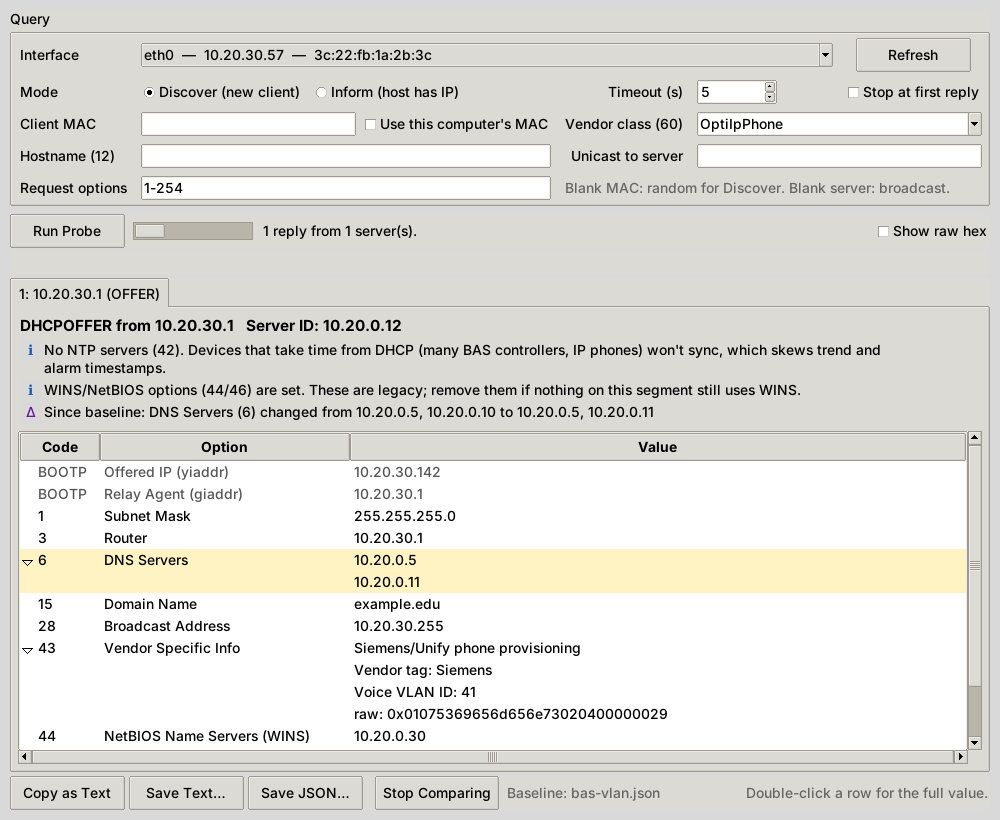
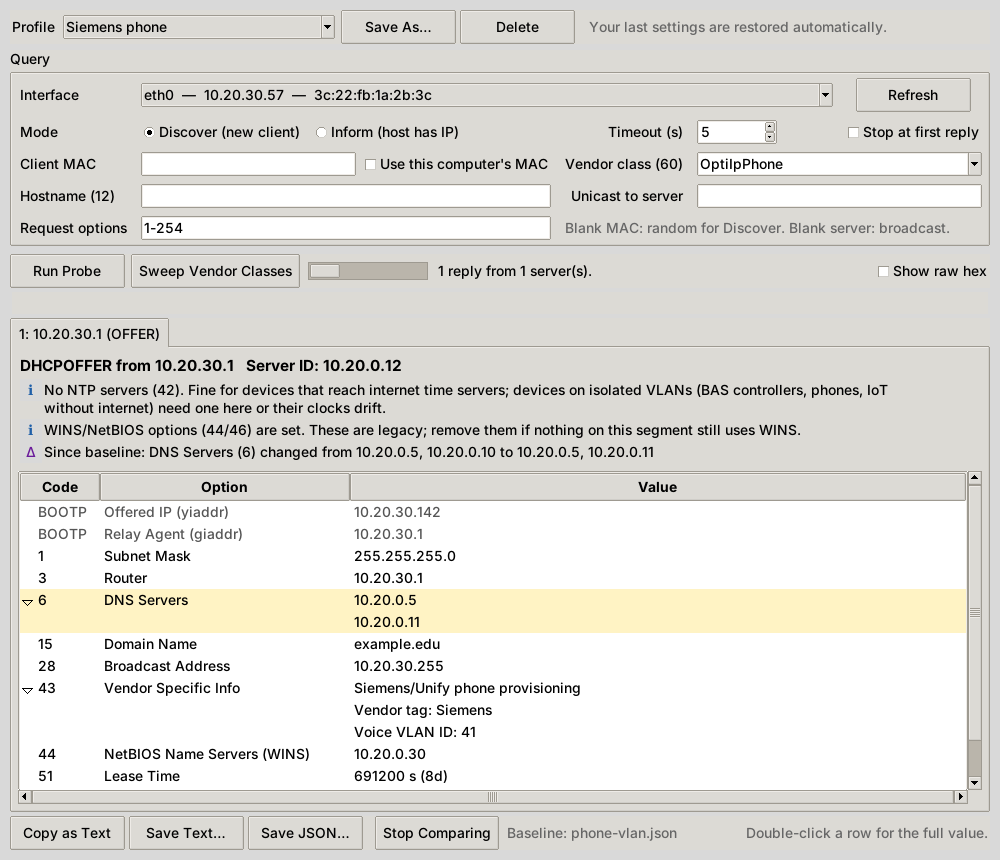
v0.3.0: docs, screenshots, changelog, signing guide
- docs/macos-signing.md: step-by-step Developer ID + API key + secrets
  setup, test procedure and troubleshooting
- README: pipx install, sweep, profiles, attestation verify, signing
  note, code layout; new screenshots
- CHANGELOG 0.3.0; sweep wording "only this class"

Claude-Session: https://claude.ai/code/session_01XPDxoRvYFwvYT4Ymnd1qcL

Changed region(s): [[0.0, 0.0, 0.992, 1.0], [0.961, 0.8232, 0.992, 0.8537]]

diff --git a/dhcp_options_finder/report.py b/dhcp_options_finder/report.py
@@ -129,8 +129,10 @@ def format_sweep(mac, results):
         elif r["status"] == "same":
             lines.append(f"  {name}same as reference")
         else:
-            lines.append(f"  {name}{format_change(r['changes'][0])}")
-            lines += [f"  {' ' * width}{format_change(c)}" for c in r["changes"][1:]]
+            fmt = [format_change(c, added="only this class", removed="not sent to this class")
+                   for c in r["changes"]]
+            lines.append(f"  {name}{fmt[0]}")
+            lines += [f"  {' ' * width}{x}" for x in fmt[1:]]
     if s["reference"] is None:
         lines.append("\nNo replies to any probe.")
     elif s["reference"]:

diff --git a/dhcp_options_finder/baseline.py b/dhcp_options_finder/baseline.py
@@ -42,10 +42,10 @@ def compare(record, baseline, ignore=BASELINE_IGNORE):
     return changes
 
 
-def format_change(c):
+def format_change(c, added="new", removed="removed"):
     code = f"{c['option']:>3} " if c["option"] is not None else "    "
     if c["kind"] == "added":
-        return f"+ {code}{c['name']}: {c['now']}  (new)"
+        return f"+ {code}{c['name']}: {c['now']}  ({added})"
     if c["kind"] == "removed":
-        return f"- {code}{c['name']}: was {c['was']}  (removed)"
+        return f"- {code}{c['name']}: was {c['was']}  ({removed})"
     return f"~ {code}{c['name']}: {c['was']} -> {c['now']}"

diff --git a/README.md b/README.md
@@ -36,10 +36,12 @@ Checking what a scope delivers usually means a packet capture or logging into th
 - **Asks for everything.** Requests all 254 option codes, so servers that only return what's requested still show their full config.
 - **Sees every server.** Collects every reply in the window and warns when more than one DHCP server answers (possible rogue).
 - **Impersonates a device.** Set the client MAC and vendor class (option 60) to see reservation- and class-specific options, e.g. option 43 for a particular AP or controller.
+- **Sweeps vendor classes.** One click probes as a Siemens phone, a Cisco AP, UniFi, Aruba, PXE and a Windows client, all with the same MAC, and shows exactly which options each class gets.
 - **Knows the vendor formats.** Option 43 is decoded for Siemens/Unify phones (voice VLAN, DLS server), Cisco APs (WLC list), UniFi (controller), Aruba and Microsoft. Anything else falls back to sub-options, text or hex.
 - **Checks the config.** Flags likely mistakes: router outside the subnet, mismatched broadcast address, missing DNS or NTP, out-of-order renewal timers, conflicting TFTP servers, leftover WINS.
 - **Spots drift.** Save a known-good scope as a baseline; later probes show exactly what changed.
 - **Decodes the hard ones:** 82 relay info, 119 domain search (with compression), 121/249 classless routes, 125 vendor-identifying info, option overload (52) and RFC 3396 split options.
+- **Remembers your setups.** Save named profiles (interface, vendor class, MAC…); the last settings come back on launch.
 - **Exports** to text or JSON, or copies selected rows to the clipboard.
 
 ## Quick start
@@ -54,12 +56,28 @@ Grab the build for your OS from the **[latest release](https://github.com/rbibby
 | macOS (Apple silicon) | `DHCPOptionsFinder-macos-arm64.zip` | Unzip and open. If it needs admin rights, it asks for your password and relaunches |
 | Linux | `DHCPOptionsFinder-linux-x64.tar.gz` | `tar xzf …` then `sudo ./DHCPOptionsFinder` (glibc 2.39+: Fedora 40+, Ubuntu 24.04+, Debian 13, RHEL 10) |
 
-CLI-only builds (`dhcpprobe-cli-*`) and `SHA256SUMS.txt` are attached to every release.
+CLI-only builds (`dhcpprobe-cli-*`), a Python wheel and `SHA256SUMS.txt` are attached to every release. Every file also has a signed build-provenance attestation, so you can check it was built by this repo's release workflow:
+
+```bash
+gh attestation verify DHCPOptionsFinder-macos-arm64.zip -R rbibby53/DHCP_Options_Finder
+```
 
 Intel Macs are no longer supported. The last Intel build is in [v0.1.0](https://github.com/rbibby53/DHCP_Options_Finder/releases/tag/v0.1.0); running [from source](#from-source) still works.
 
 > [!NOTE]
-> Builds are not code-signed yet. On macOS, if Gatekeeper blocks the app: right-click, then **Open**, or run `xattr -dr com.apple.quarantine DHCPOptionsFinder.app`. On Windows, SmartScreen will warn: click **More info**, then **Run anyway**.
+> Once signing is set up ([docs/macos-signing.md](docs/macos-signing.md)), the macOS app is signed with a Developer ID and notarized by Apple, and each release's notes say whether it is. An unsigned Mac build that Gatekeeper blocks can still be opened: right-click it, then **Open**, or run `xattr -dr com.apple.quarantine DHCPOptionsFinder.app`. Windows builds are unsigned, so SmartScreen will warn: click **More info**, then **Run anyway**.
+
+### With pipx
+
+Installs the `dhcpprobe` command and the `dhcp-options-finder` GUI into their own environment:
+
+```bash
+pipx install git+https://github.com/rbibby53/DHCP_Options_Finder.git
+sudo "$(command -v dhcpprobe)" --list     # sudo doesn't search ~/.local/bin, so pass the full path
+sudo -E "$(command -v dhcp-options-finder)"
+```
+
+Upgrade with `pipx upgrade dhcp-options-finder`.
 
 ### From source
 
@@ -70,7 +88,7 @@ pip install -r requirements.txt
 sudo python3 dhcpprobe_gui.py      # Windows: py dhcpprobe_gui.py
 ```
 
-You need Python 3.11+ with Tkinter (Fedora: `sudo dnf install python3-tkinter`, Debian/Ubuntu: `sudo apt install python3-tk`, Homebrew: `brew install python-tk`).
+Either way you need Python 3.11+ with Tkinter (Fedora: `sudo dnf install python3-tkinter`, Debian/Ubuntu: `sudo apt install python3-tk`, Homebrew: `brew install python-tk`).
 
 ### Using it
 
@@ -80,7 +98,12 @@ You need Python 3.11+ with Tkinter (Fedora: `sudo dnf install python3-tkinter`, 
    - **Inform** shows the config for a host that already has an IP. No address is offered, but options are.
 3. Optionally set a **Client MAC** (a device's real MAC, to see its reservation) and a **Vendor class** (e.g. `OptiIpPhone`, `PXEClient`, your AP's class string). With the MAC blank, Discover uses a random MAC so an existing lease on your computer doesn't skew the answer. Tick **Use this computer's MAC** to send yours instead.
 4. Click **Run Probe**. Each reply gets its own tab, with config checks at the top. Double-click a row for the full value, and tick **Show raw hex** to see the bytes.
-5. To track changes, **Save JSON…** a known-good result, then later click **Compare to Baseline…** and pick that file. Changed options are highlighted and listed above the table.
+5. To find out which device types get special options, click **Sweep Vendor Classes**. It probes once per preset class, plus any custom class you typed, all with the same MAC. The **Sweep** tab lists what each class gets that the others don't; double-click a class to open its full reply.
+
+   <img src="docs/sweep.png" width="720" alt="Vendor class sweep showing which options each class receives">
+
+6. To track changes, **Save JSON…** a known-good result, then later click **Compare to Baseline…** and pick that file. Changed options are highlighted and listed above the table.
+7. **Profile → Save As…** stores the current settings under a name, e.g. "Siemens phone" or "AP VLAN". Your last settings are also restored automatically. Profiles live in your user folder (`%APPDATA%`, `~/Library/Application Support` or `~/.config`), even when the app runs as administrator.
 
 ## CLI
 
@@ -98,6 +121,11 @@ sudo python3 dhcpprobe.py -i eth0 -s 10.20.30.1              # unicast to one se
 sudo python3 dhcpprobe.py -i eth0 -j > options.json          # JSON for scripts (includes checks)
 sudo python3 dhcpprobe.py -i eth0 --save-baseline bas.json   # record a known-good scope
 sudo python3 dhcpprobe.py -i eth0 --baseline bas.json        # compare; exit 3 if anything changed
+sudo python3 dhcpprobe.py -i eth0 --sweep                    # which options each vendor class gets
+sudo python3 dhcpprobe.py -i eth0 --sweep-classes ",OptiIpPhone,Mitel"  # sweep your own list ('' = none)
+sudo python3 dhcpprobe.py -i eth1 -V OptiIpPhone --save-profile phones  # remember these settings
+sudo python3 dhcpprobe.py -p phones                          # reuse them (flags still override)
+sudo python3 dhcpprobe.py --list-profiles
 ```
 
 <details>
@@ -134,6 +162,23 @@ sudo python3 dhcpprobe.py -i eth0 --baseline bas.json        # compare; exit 3 i
 ```
 </details>
 
+<details>
+<summary>Example sweep</summary>
+
+```text
+Vendor class sweep: 7 probes, client MAC 02:a1:b2:c3:d4:e5 for every probe
+
+  (none)          reference: 8 options from 10.20.0.12
+  OptiIpPhone     +  43 Vendor Specific Info: Siemens/Unify phone provisioning, Vendor tag: Siemens, Voice VLAN ID: 41  (only this class)
+  Cisco AP c9130  +  43 Vendor Specific Info: Cisco AP controller list, WLC: 10.20.0.5  (only this class)
+  ubnt            no reply
+  ArubaAP         no reply
+  PXEClient       +  66 TFTP Server Name: 10.20.0.40  (only this class)
+                  +  67 Bootfile Name: ipxe.efi  (only this class)
+  MSFT 5.0        same as reference
+```
+</details>
+
 Run `python3 dhcpprobe.py --help` for every flag. Exit codes: `0` a server replied, `1` no replies, `3` the reply differs from `--baseline`. That makes it usable from a scheduled job or monitoring system to catch scope changes.
 
 Baseline comparison works on the raw option bytes and ignores options that legitimately vary between probes: the requested IP (50), message type (53), server identifier (54, so failover partners don't count as drift), client ID (61) and relay agent info (82).
@@ -162,6 +207,19 @@ sudo -E DHCPPROBE_LOOPBACK=1 python3 -m pytest tests/test_loopback.py   # real s
 ```
 
 CI runs lint plus unit and loopback tests on Windows, macOS and Linux against Python 3.11 (oldest supported) and 3.15 (latest). Release builds use Python 3.15.
+
+Code layout (`dhcp_options_finder/`):
+
+| Module | Does |
+|---|---|
+| `options.py` | Option table, decoders, vendor option 43 layouts, vendor class presets |
+| `packet.py` | Build requests, parse replies (overload, RFC 3396) |
+| `net.py` | Interfaces, per-OS sockets, `probe()` and `sweep()` |
+| `checks.py` | Config checks |
+| `baseline.py` | Baseline load and compare |
+| `report.py` | Summaries, text/JSON output, sweep reports |
+| `profiles.py` | Saved profiles and last-used settings |
+| `cli.py`, `gui.py` | The two front ends |
 
 ### Releasing
 

diff --git a/docs/macos-signing.md b/docs/macos-signing.md
@@ -1,0 +1,63 @@
+# macOS signing and notarization setup
+
+The release workflow signs the Mac app with your **Developer ID** and has Apple **notarize** it, so it opens on any Mac without a Gatekeeper warning. Until the secrets below exist, the workflow simply builds the Mac app unsigned, as before.
+
+You do this once, on your Mac, in about 20 minutes. The private key is created in, and stays in, your login keychain. Its only other copy is the encrypted GitHub secret.
+
+## 1. Developer ID Application certificate
+
+Only the **Account Holder** of the Apple Developer account can create this.
+
+1. Open **Keychain Access**. From the menu bar choose **Keychain Access → Certificate Assistant → Request a Certificate From a Certificate Authority…**
+2. Enter your email address and name, leave CA Email blank, choose **Saved to disk**, then **Continue**. This creates a `.certSigningRequest` file and a private key in your login keychain.
+3. Go to [developer.apple.com/account](https://developer.apple.com/account) → **Certificates, IDs & Profiles** → **Certificates** → **+**.
+4. Choose **Developer ID Application**. Not "Apple Development", and not "Mac App Distribution". Keep the default **G2 Sub-CA**, upload the request file, and download the `.cer`.
+5. Double-click the `.cer` to install it. In Keychain Access → **login** → **My Certificates** you should now see **Developer ID Application: Ryan Bibby (TEAMID)**, with a private key under it when you expand it.
+6. Right-click that certificate → **Export…** → format **Personal Information Exchange (.p12)**. Give it a strong password and save it as `DeveloperID.p12`.
+
+## 2. App Store Connect API key (for notarization)
+
+1. Go to [App Store Connect](https://appstoreconnect.apple.com) → **Users and Access** → **Integrations** → **App Store Connect API** → **Team Keys**. If you've never used the API, the Account Holder has to click **Request Access** first.
+2. Click **+** and name the key `DHCP Options Finder notarization`. **Developer** access is enough.
+3. **Download** the `AuthKey_XXXXXXXXXX.p8`. Apple only lets you download it once.
+4. Note the **Key ID** shown next to the key, and the **Issuer ID** shown above the list.
+
+## 3. GitHub repository secrets
+
+Go to the repository → **Settings** → **Secrets and variables** → **Actions** → **New repository secret**. Add five secrets:
+
+| Secret | Value | How to get it |
+|---|---|---|
+| `MACOS_CERT_P12` | the `.p12`, base64-encoded | `base64 -i DeveloperID.p12 \| pbcopy`, then paste |
+| `MACOS_CERT_PASSWORD` | the password you set on export | |
+| `APPLE_API_KEY_P8` | the contents of the `.p8` file | `pbcopy < AuthKey_XXXXXXXXXX.p8`, then paste |
+| `APPLE_API_KEY_ID` | Key ID | e.g. `2X9R4HXF34` |
+| `APPLE_API_ISSUER_ID` | Issuer ID | a UUID |
+
+Then move `DeveloperID.p12` and the `.p8` into your password manager, or delete them. The certificate and key stay in your keychain either way.
+
+## 4. Test it without publishing
+
+1. Go to **Actions** → **Release** → **Run workflow**, on `main`. A manual run builds everything but publishes nothing.
+2. When it finishes, download the **DHCPOptionsFinder-macos-arm64** artifact, unzip it, and open the app. It should open with no "can't be opened" warning.
+3. To check from Terminal:
+
+   ```bash
+   spctl --assess --type execute -vv DHCPOptionsFinder.app
+   ```
+
+   It should report `accepted` and `source=Notarized Developer ID`.
+
+The next release, which happens when a version bump merges to `main`, ships the signed app.
+
+## If something fails
+
+| Symptom in the workflow log | Fix |
+|---|---|
+| `no 'Developer ID Application' certificate with its private key` | The `.p12` was exported without its private key, or it's the wrong certificate type. Re-export from **My Certificates**, not **Certificates**. |
+| `security: SecKeychainItemImport: MAC verification failed` | `MACOS_CERT_PASSWORD` doesn't match the `.p12`. |
+| Notarization returns `Invalid` | Apple's log is printed right below it, listing each problem file. |
+| Notarization `401`/`Unauthorized` | Check the Key ID, the Issuer ID, and that `APPLE_API_KEY_P8` includes the `-----BEGIN PRIVATE KEY-----` lines. |
+| The app is notarized but quits right after opening | A hardened-runtime entitlement is missing. Check Console.app for the crash reason and add the entitlement to `.github/macos/entitlements.plist`. |
+
+The Developer ID certificate is valid for 5 years. To rotate it, repeat step 1 and replace the two `MACOS_CERT_*` secrets.

diff --git a/CHANGELOG.md b/CHANGELOG.md
@@ -4,6 +4,23 @@ All notable changes to this project are documented here. The format follows [Kee
 
 ## [Unreleased]
 
+## [0.3.0] - 2026-11-10
+
+### Added
+- **Vendor class sweep:** probe once per vendor class (Siemens/Unify, Cisco AP, UniFi, Aruba, PXE, Microsoft, plus custom classes), all with the same MAC, and see which options each class gets. **Sweep Vendor Classes** in the GUI; `--sweep` / `--sweep-classes` in the CLI, with text or JSON output.
+- **Profiles:** save named settings and reuse them. The GUI restores your last settings on launch; the CLI has `--profile`, `--save-profile`, `--list-profiles` and `--delete-profile`. Profiles stay in your user folder and owned by you, even under sudo or the GUI's admin relaunch.
+- **pipx install:** `pipx install git+https://github.com/rbibby53/DHCP_Options_Finder.git` gives you `dhcpprobe` and `dhcp-options-finder` commands. Releases also attach the wheel.
+- **macOS signing and notarization** in the release workflow, enabled once the Apple secrets are added (see `docs/macos-signing.md`).
+- **Build provenance attestations** for every release file (`gh attestation verify`).
+
+### Changed
+- The "only one DNS server" check no longer fires when that server is the gateway itself (the usual home and small-office setup).
+- The NTP check explains that it matters for devices on isolated VLANs.
+- The GUI no longer repeats option 43 raw hex as a row; it's in the Raw (hex) column.
+- The engine is now a package, `dhcp_options_finder`. `dhcpprobe.py` and `dhcpprobe_gui.py` still work from a checkout.
+- Release workflow: actions pinned to commit SHAs, read-only token by default, with write access only for the publish job.
+
+
 ## [0.2.0] - 2026-11-09
 
 ### Added
@@ -38,6 +55,7 @@ First release.
 - Running from source needs Python 3.11 or newer.
 - The Linux build needs glibc 2.39+ (Fedora 40+, Ubuntu 24.04+, Debian 13, RHEL 10).
 
-[Unreleased]: https://github.com/rbibby53/DHCP_Options_Finder/compare/v0.2.0...HEAD
+[Unreleased]: https://github.com/rbibby53/DHCP_Options_Finder/compare/v0.3.0...HEAD
+[0.3.0]: https://github.com/rbibby53/DHCP_Options_Finder/releases/tag/v0.3.0
 [0.2.0]: https://github.com/rbibby53/DHCP_Options_Finder/releases/tag/v0.2.0
 [0.1.0]: https://github.com/rbibby53/DHCP_Options_Finder/releases/tag/v0.1.0
